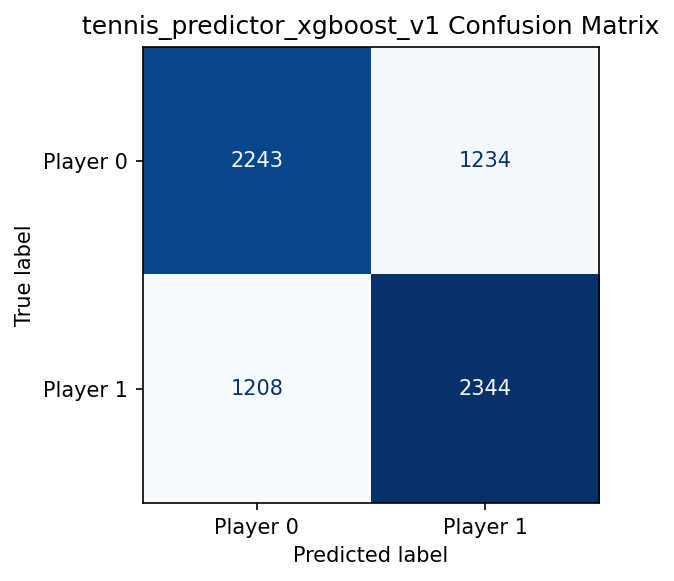
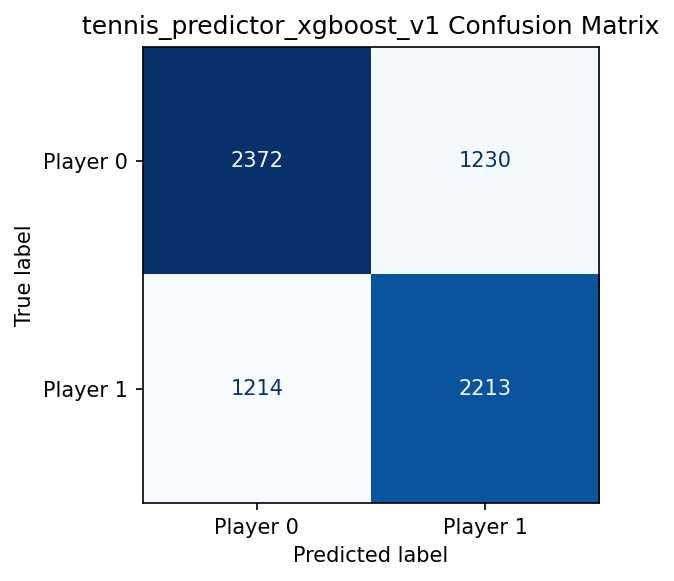
polish readme.md

Changed region(s): [[0.1869, 0.062, 0.9036, 0.8675], [0.7166, 0.2478, 0.7789, 0.2788], [0.3739, 0.6506, 0.4362, 0.6816]]

diff --git a/src/models/xgboost.py b/src/models/xgboost.py
@@ -1,7 +1,8 @@
-from typing import Optional, Self
+from typing import Self
 
 import numpy as np
 import pandas as pd
+import matplotlib.pyplot as plt
 from xgboost import XGBClassifier
 from sklearn.metrics import accuracy_score, log_loss, brier_score_loss
 
@@ -91,7 +92,7 @@ class TennisPredictorXGBoost(TennisPredictorModel):
         return model_instance
 
     def log_feature_importance(self, feature_names: list[str]) -> None:
-        """Log the feature importance of the trained XGBoost model to a text file."""
+        """Log feature importance of the trained XGBoost model as a bar chart image."""
 
         if not self._is_fitted:
             raise RuntimeError(f"{self.instance_name} must be trained before calling log_feature_importance().")
@@ -105,17 +106,21 @@ class TennisPredictorXGBoost(TennisPredictorModel):
             zip(feature_names, importances),
             key=lambda x: x[1],
             reverse=True,
-        )
+        )[:10]
 
-        lines = []
-        lines.append(f"Feature Importance Report for {self.instance_name}\n")
-        lines.append(f"Total features: {len(feature_names)}\n")
-        for i, (name, score) in enumerate(feature_importance_pairs, 1):
-            lines.append(f"{i:03d}. {name:<40} {score:.6f}")
+        names, scores = zip(*feature_importance_pairs)
 
-        lines.append(f"\nSum of feature importances (expected value = 1.000000): {sum(importances):.6f}")
+        plt.figure(figsize=(10, 6))
+        plt.barh(names, scores)
+        plt.gca().invert_yaxis()
+        plt.xlabel("Feature Importance")
+        plt.title(f"Top 10 Feature Importances - {self.instance_name}")
 
-        output_path = self.instance_dir / "feature_importance.txt"
-        with open(output_path, "w") as f:
-            f.write("\n".join(lines))
-        print(f"Feature importance report saved to: {output_path}")
+        plt.tight_layout()
+
+        # Save as image instead of text
+        output_path = self.instance_dir / "top_10_feature_importance.png"
+        plt.savefig(output_path, dpi=300, bbox_inches="tight")
+        plt.close()
+
+        print(f"Feature importance plot saved to: {output_path}")

diff --git a/README.md b/README.md
@@ -9,9 +9,10 @@ The primary goal is to build an accurate, interpretable, and extensible predicti
 ## This repository includes
 The full end-to-end tennis prediction pipeline:
 
-- **Data preprocessing & cleaning**
-  - Raw match data ingestion
-  - Feature-safe chronological processing
+- **Live data fetching, preprocessing & cleaning**
+  - Live data sourcing from [Jeff Sackmann’s ATP dataset](https://raw.githubusercontent.com/JeffSackmann/tennis_atp/master)
+  - Coverage of 60,000+ ATP matches across 20+ years of professional tennis history
+  - Feature-safe chronological processing to prevent data leakage
 
 - **Feature engineering**
   - Elo rating system (global + surface-specific)
@@ -86,26 +87,26 @@ Each player is assigned a dynamic rating that updates after every match based on
 
 **Elo update formula:**
 
-\[
+$$
 R_{new} = R_{old} + K \cdot (S - E)
-\]
+$$
 
 Where:
-- \(R_{old}\): current rating  
-- \(K\): learning rate / volatility constant  
-- \(S\): actual match result (1 = win, 0 = loss)  
-- \(E\): expected win probability based on rating difference  
+- $R_{old}$: current rating  
+- $K$: K-Factor / volatility constant  
+- $S$: actual match result (1 = win, 0 = loss)  
+- $E$: expected win probability based on rating difference  
 
 Expected score:
 
-\[
+$$
 E_A = \frac{1}{1 + 10^{(R_B - R_A)/400}}
-\]
+$$
 
 This model provides a strong baseline and forms the foundation for more complex feature engineering.
-![Career Elo Trajectory of Rafael Nadal](artifacts/nadal_career_elo_trajectory.png)
 
----
+![Career Elo Trajectory of Rafael Nadal](artifacts/nadal_career_elo_trajectory.png)
+*Career Elo trajectory of Rafael Nadal over his professional career, showing long-term performance evolution and surface dominance.*
 
 ### TennisPredictorMLP
 
@@ -116,8 +117,6 @@ A feedforward neural network trained on engineered match features.
 - Output: probability of Player A winning
 
 The MLP is capable of learning nonlinear interactions between features (e.g., how fatigue and surface interact), but can be sensitive to feature scaling and data distribution.
-
----
 
 ### TennisPredictorXGBoost
 
@@ -132,8 +131,15 @@ This is currently my **preferred model** for this project due to its:
 
 One of its biggest advantages is interpretability:we can directly evaluate which features contribute most to predictive power.
 
-📊 *(Insert feature importance snapshot here)*
+![Top 10 Feature Importance](artifacts/tennis_predictor_xgboost/v1/top_10_feature_importance.png)
+*Top 10 feature importances from the trained XGBoost model, showing the most influential variables used in match outcome prediction.*
 
+## Acknowledgements
+
+Many thanks to **Jeff Sackmann** and the wider **Tennis Abstract** community for their ongoing efforts in providing and maintaining publicly available tennis datasets.
+
+- [Jeff Sackmann’s ATP dataset](https://raw.githubusercontent.com/JeffSackmann/tennis_atp/master)
+- https://www.tennisabstract.com/
 
 ## Tennis ML Predictor API
 Coming soon!